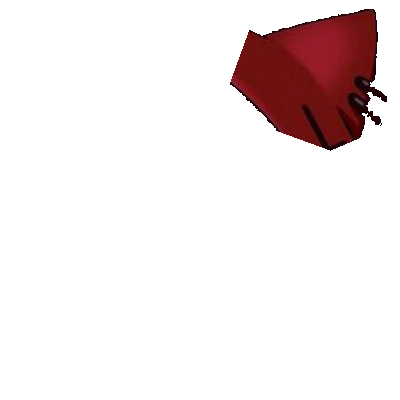
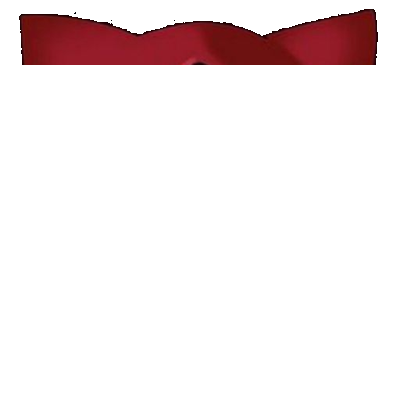
Fix ear tear bug by using horizontal cut and skew animation

Changed region(s): [[0.03, 0.03, 0.99, 0.39]]

diff --git a/frontend/src/pages/ProfilePage.module.css b/frontend/src/pages/ProfilePage.module.css
@@ -966,14 +966,14 @@
 }
 
 .animHat {
-  transform-origin: 75% 25%;
+  transform-origin: 50% 16.25%;
   animation: hatTwitch 4s ease-in-out infinite;
 }
 
 @keyframes hatTwitch {
-  0%, 80%, 100% { transform: translate(-50%, -50%) rotate(0deg); }
-  84% { transform: translate(-50%, -50%) rotate(6deg); }
-  88% { transform: translate(-50%, -50%) rotate(-4deg); }
-  92% { transform: translate(-50%, -50%) rotate(4deg); }
-  96% { transform: translate(-50%, -50%) rotate(-2deg); }
+  0%, 80%, 100% { transform: translate(-50%, -50%) skewX(0deg); }
+  84% { transform: translate(-50%, -50%) skewX(10deg); }
+  88% { transform: translate(-50%, -50%) skewX(-6deg); }
+  92% { transform: translate(-50%, -50%) skewX(8deg); }
+  96% { transform: translate(-50%, -50%) skewX(-3deg); }
 }

diff --git a/frontend/src/pages/SettingsPage.module.css b/frontend/src/pages/SettingsPage.module.css
@@ -1492,16 +1492,16 @@ input:checked + .toggleSlider:before {
 }
 
 .animHat {
-  transform-origin: 75% 25%;
+  transform-origin: 50% 16.25%;
   animation: hatTwitch 4s ease-in-out infinite;
 }
 
 @keyframes hatTwitch {
-  0%, 80%, 100% { transform: translate(-50%, -50%) rotate(0deg); }
-  84% { transform: translate(-50%, -50%) rotate(6deg); }
-  88% { transform: translate(-50%, -50%) rotate(-4deg); }
-  92% { transform: translate(-50%, -50%) rotate(4deg); }
-  96% { transform: translate(-50%, -50%) rotate(-2deg); }
+  0%, 80%, 100% { transform: translate(-50%, -50%) skewX(0deg); }
+  84% { transform: translate(-50%, -50%) skewX(10deg); }
+  88% { transform: translate(-50%, -50%) skewX(-6deg); }
+  92% { transform: translate(-50%, -50%) skewX(8deg); }
+  96% { transform: translate(-50%, -50%) skewX(-3deg); }
 }
 
 .frameImg {

diff --git a/frontend/src/pages/ProfilePage.jsx b/frontend/src/pages/ProfilePage.jsx
@@ -132,13 +132,13 @@ export default function ProfilePage() {
             {selectedFrame && selectedFrame !== 'none' && (
               <>
                 <img 
-                  src={selectedFrame.split('?')[0] === '/frames/frame_4.png' ? '/frames/frame_4_base.png?v=2' : selectedFrame.split('?')[0] + '?v=12'} 
+                  src={selectedFrame.split('?')[0] === '/frames/frame_4.png' ? '/frames/frame_4_base.png?v=3' : selectedFrame.split('?')[0] + '?v=12'} 
                   alt="Frame Base" 
                   className={`${styles.frameImg} ${selectedFrame.includes('frame_3') ? styles.animFan : ''}`} 
                 />
                 {selectedFrame.includes('frame_4') && (
                   <img 
-                    src="/frames/frame_4_ear.png?v=2" 
+                    src="/frames/frame_4_ear.png?v=3" 
                     alt="Frame Ear" 
                     className={`${styles.frameImg} ${styles.animHat}`} 
                   />

diff --git a/frontend/src/pages/SettingsPage.jsx b/frontend/src/pages/SettingsPage.jsx
@@ -658,13 +658,13 @@ export default function SettingsPage() {
                     return (
                       <>
                         <img 
-                          src={isFrame4 ? '/frames/frame_4_base.png?v=2' : (matchedFrame?.img || currentFrame.split('?')[0] + '?v=12')} 
+                          src={isFrame4 ? '/frames/frame_4_base.png?v=3' : (matchedFrame?.img || currentFrame.split('?')[0] + '?v=12')} 
                           alt="Frame Base" 
                           className={`${styles.frameImg} ${matchedFrame?.effectClass && !isFrame4 ? styles[matchedFrame.effectClass] : ''}`} 
                         />
                         {isFrame4 && (
                           <img 
-                            src="/frames/frame_4_ear.png?v=2" 
+                            src="/frames/frame_4_ear.png?v=3" 
                             alt="Frame Ear" 
                             className={`${styles.frameImg} ${styles.animHat}`} 
                           />